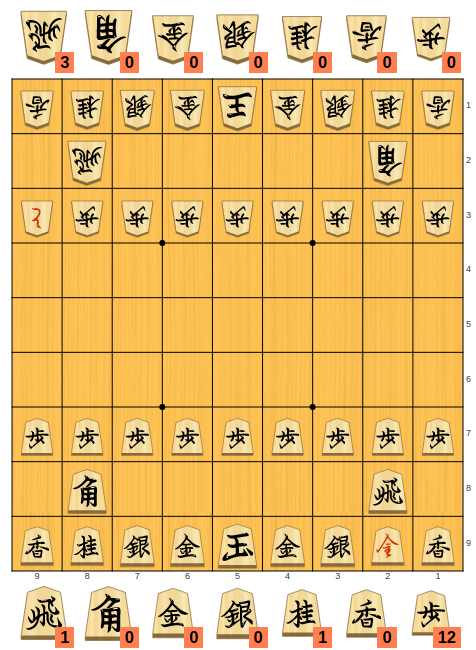
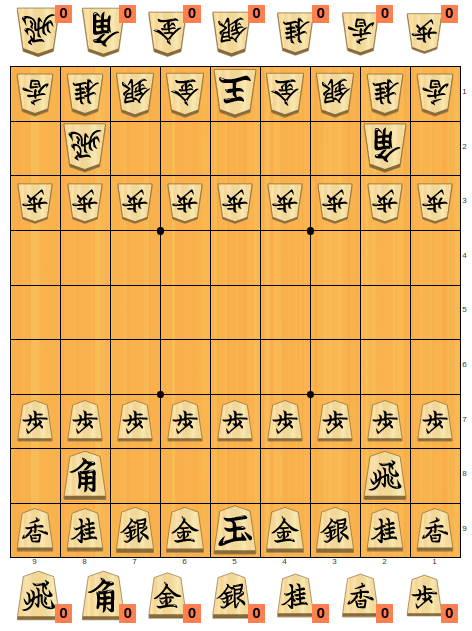
Update screenshot

diff --git a/examples/hands.html b/examples/hands.html
@@ -5,7 +5,7 @@
     <link rel="stylesheet" href="assets/css/base.css" />
     <link rel="stylesheet" href="assets/css/shogiground.css" />
     <link rel="stylesheet" href="assets/css/hands.css" />
-    <link rel="stylesheet" href="assets/css/themes/checker.css" />
+    <link rel="stylesheet" href="assets/css/themes/wood-grid.css" />
     <link rel="stylesheet" href="assets/css/pieces/ryoko.css" />
   </head>
 
@@ -25,8 +25,8 @@
     <script>
       const config = {
         sfen: {
[1 lines of base64/hex data omitted]
-          hands: 'R2P12l10p',
+          board: 'lnsgkgsnl/1r5b1/ppppppppp/9/9/9/PPPPPPPPP/1B5R1/LNSGKGSNL',
+          hands: '',
         },
         activeColor: 'sente',
         resizable: true,

diff --git a/examples/assets/css/themes/wood-grid.css b/examples/assets/css/themes/wood-grid.css
@@ -1,7 +1,7 @@
 .sg-wrap sg-squares {
   border-top: 1px solid black;
   border-left: 1px solid black;
-  background-image: url('../../board/ban2.jpg');
+  background-image: url('../../board/new_board.png');
 }
 
 /* grid */
